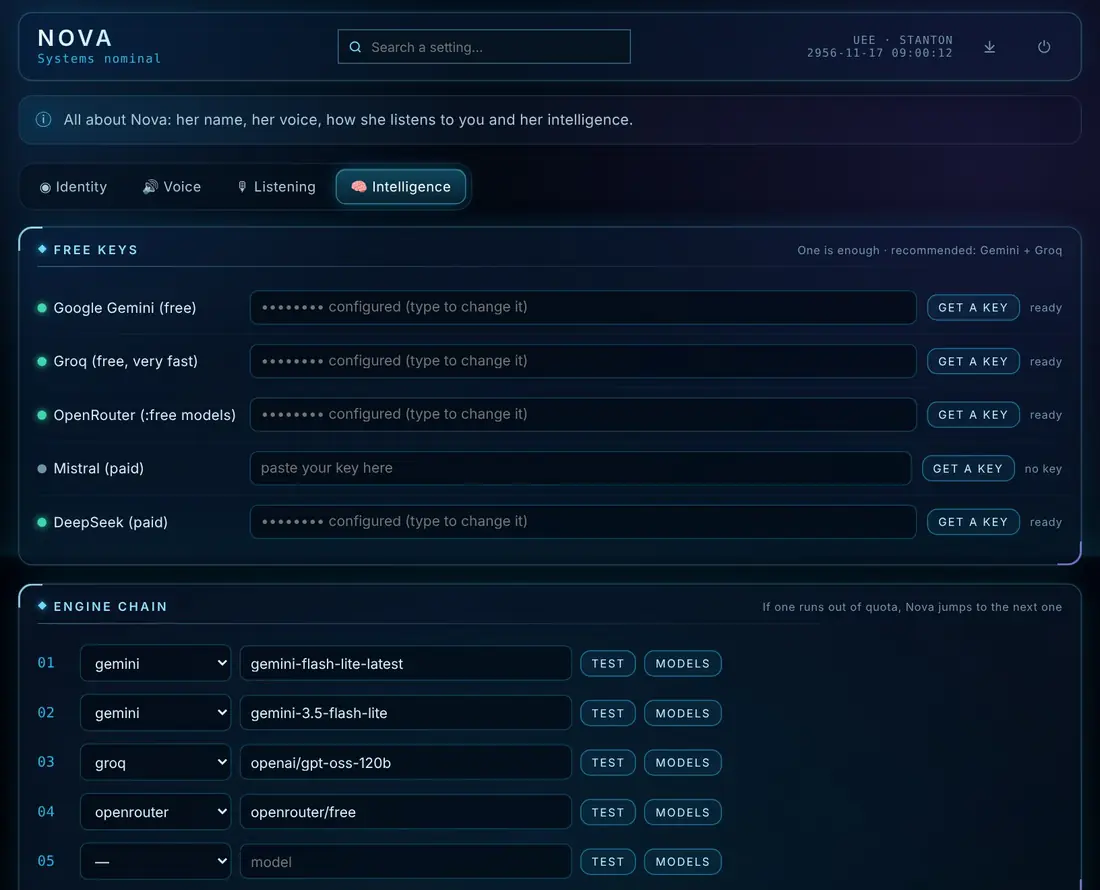
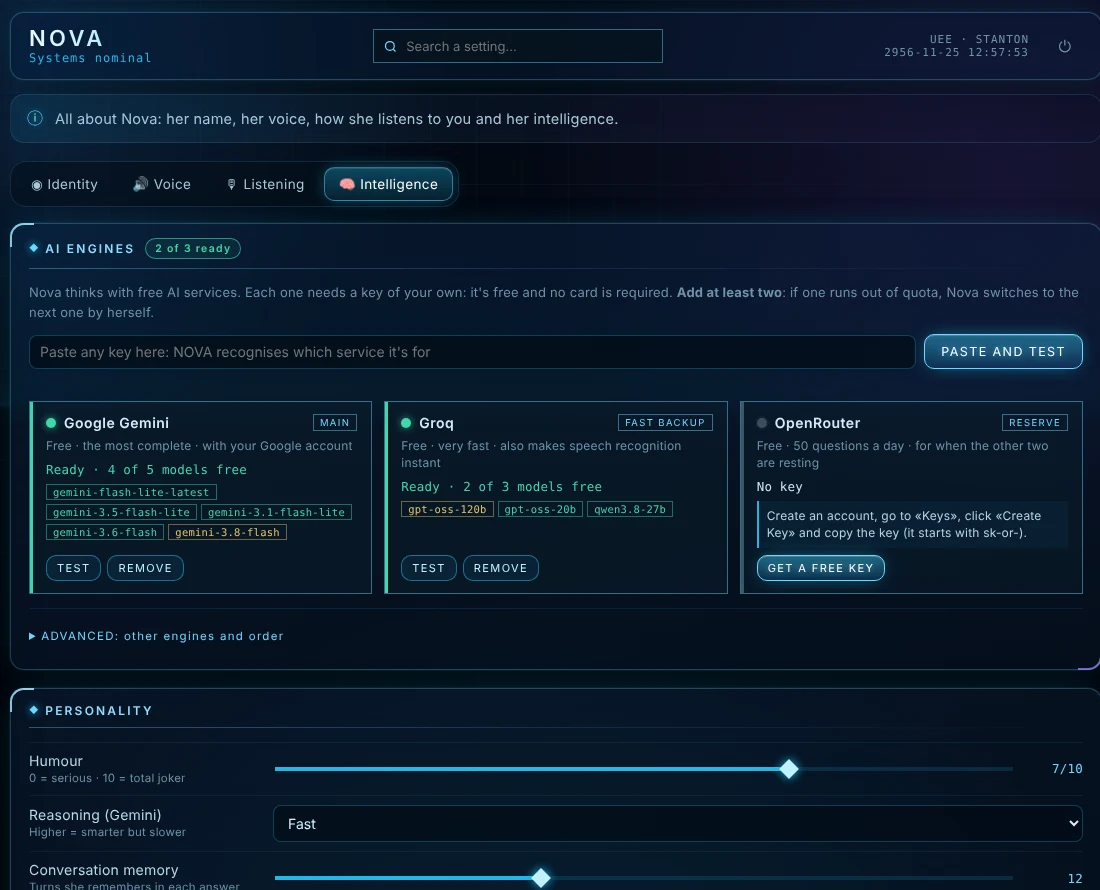
Manual 2.1.5: capturas nuevas de Nova › Inteligencia y página de personalidad sin desbordar
- c_ia.webp (5 idiomas) con el panel MOTORES DE IA.
- Figura de personalidad más pequeña y fuera el consejo «Añadir un motor a la cadena» (ahora en Avanzado),
  que con la tabla nueva se salía de la página al imprimir.

Claude-Session: https://claude.ai/code/session_0187yjVk9BoTDpcdbcGZm9k3

diff --git a/gui/web/manual/de/index.html b/gui/web/manual/de/index.html
@@ -704,7 +704,7 @@ table.tight{font-size:8pt}table.tight td{padding:1.15mm 2.2mm;line-height:1.3}
   </table>
   <p class="small dim">Ist keines frei, sagt dir Nova, welches ausfällt und wann es zurück ist. Unter <b>Erweitert</b> kannst du Mistral (kostenpflichtig) eintragen, Ollama auf deinem PC als letzte Reserve nutzen, die Reihenfolge selbst festlegen oder alle Pausen mit <b>Alle jetzt erneut testen</b> aufheben.</p>
   <h2>Persönlichkeit</h2>
-  <figure class="c" style="width:122mm"><img src="img/c_ia_personalidad.webp"><figcaption><b>Persönlichkeit:</b> Humor, Nachdenken, Gesprächsgedächtnis und Geständnissätze.</figcaption></figure>
+  <figure class="c" style="width:104mm"><img src="img/c_ia_personalidad.webp"><figcaption><b>Persönlichkeit:</b> Humor, Nachdenken, Gesprächsgedächtnis und Geständnissätze.</figcaption></figure>
   <table class="small">
     <tr><th style="width:52mm">Einstellung</th><th>Wofür sie ist</th></tr>
     <tr><td>Humor</td><td>Von 0 (ernst) bis 10 (durch und durch witzig).</td></tr>
@@ -713,7 +713,6 @@ table.tight{font-size:8pt}table.tight td{padding:1.15mm 2.2mm;line-height:1.3}
     <tr><td>Erfinden, wenn sie es nicht weiß</td><td>An: Sie erfindet die Antwort mit Witz und gibt es am Ende zu. Aus: Sie sagt Ihnen mit Humor, dass sie es nicht weiß.</td></tr>
     <tr><td>Geständnissätze</td><td>Einer pro Zeile; sie wählt zufällig einen. <code>{t}</code> wird durch die Anrede ersetzt, die sie für Sie verwendet. <b>Original wiederherstellen</b> kehrt zum Werkssatz zurück.</td></tr>
   </table>
-  <div class="tip"><span class="t">EINE ENGINE ZUR KETTE HINZUFÜGEN</span>Wählen Sie in der leeren Zeile den Anbieter (zum Beispiel <b>deepseek</b>, wenn Sie dessen Schlüssel haben), tippen Sie das Modell oder klicken Sie auf <b>MODELLE</b>, um es aus der Liste zu wählen, und prüfen Sie es mit <b>TESTEN</b>. Zum Entfernen setzen Sie den Anbieter auf „—“.</div>
   <div class="pf">NOVA AI · BENUTZERHANDBUCH<span class="n"></span></div>
 </section>
 

diff --git a/gui/web/manual/fr/index.html b/gui/web/manual/fr/index.html
@@ -704,7 +704,7 @@ table.tight{font-size:8pt}table.tight td{padding:1.15mm 2.2mm;line-height:1.3}
   </table>
   <p class="small dim">S'il n'en reste aucun de libre, Nova vous dit lequel échoue et quand il revient. Dans <b>Avancé</b>, vous pouvez ajouter Mistral (payant), utiliser Ollama sur votre PC en dernier recours, choisir vous-même l'ordre des moteurs ou lever toutes les pauses avec <b>Tout réessayer maintenant</b>.</p>
   <h2>Personnalité</h2>
-  <figure class="c" style="width:122mm"><img src="img/c_ia_personalidad.webp"><figcaption><b>Personnalité :</b> humour, raisonnement, mémoire de conversation et phrases d'aveu.</figcaption></figure>
+  <figure class="c" style="width:104mm"><img src="img/c_ia_personalidad.webp"><figcaption><b>Personnalité :</b> humour, raisonnement, mémoire de conversation et phrases d'aveu.</figcaption></figure>
   <table class="small">
     <tr><th style="width:52mm">Réglage</th><th>À quoi il sert</th></tr>
     <tr><td>Humour</td><td>De 0 (sérieuse) à 10 (blagueuse totale).</td></tr>
@@ -713,7 +713,6 @@ table.tight{font-size:8pt}table.tight td{padding:1.15mm 2.2mm;line-height:1.3}
     <tr><td>Inventer quand elle ne sait pas</td><td>Activé : elle invente la réponse avec esprit et l'avoue à la fin. Désactivé : elle vous dit avec humour qu'elle ne sait pas.</td></tr>
     <tr><td>Phrases d'aveu</td><td>Une par ligne ; elle en choisit une au hasard. <code>{t}</code> est remplacé par la façon dont elle vous appelle. <b>Restaurer l'originale</b> revient à celle d'usine.</td></tr>
   </table>
-  <div class="tip"><span class="t">AJOUTER UN MOTEUR À LA CHAÎNE</span>Dans la ligne vide, choisissez le fournisseur (par exemple <b>deepseek</b>, si vous avez sa clé), écrivez le modèle ou cliquez sur <b>MODÈLES</b> pour le choisir dans la liste, et vérifiez-le avec <b>TESTER</b>. Pour en retirer un, mettez le fournisseur sur « — ».</div>
   <div class="pf">NOVA AI · MANUEL UTILISATEUR<span class="n"></span></div>
 </section>
 

diff --git a/gui/web/manual/index.html b/gui/web/manual/index.html
@@ -705,7 +705,7 @@ table.tight{font-size:8pt}table.tight td{padding:1.15mm 2.2mm;line-height:1.3}
   </table>
   <p class="small dim">Si no queda ninguno libre, Nova te dice cuál falla y cuándo vuelve. En <b>Avanzado</b> puedes poner Mistral (de pago), usar Ollama en tu PC como último recurso, elegir tú el orden de los motores o quitar todas las pausas con <b>Volver a probar todos ya</b>.</p>
   <h2>Personalidad</h2>
-  <figure class="c" style="width:122mm"><img src="img/c_ia_personalidad.webp"><figcaption><b>Personalidad:</b> humor, razonamiento, memoria de la conversación y frases de confesión.</figcaption></figure>
+  <figure class="c" style="width:104mm"><img src="img/c_ia_personalidad.webp"><figcaption><b>Personalidad:</b> humor, razonamiento, memoria de la conversación y frases de confesión.</figcaption></figure>
   <table class="small">
     <tr><th style="width:52mm">Ajuste</th><th>Para qué sirve</th></tr>
     <tr><td>Humor</td><td>De 0 (serio) a 10 (cachondo total).</td></tr>
@@ -714,7 +714,6 @@ table.tight{font-size:8pt}table.tight td{padding:1.15mm 2.2mm;line-height:1.3}
     <tr><td>Inventar cuando no sabe algo</td><td>Activado: se inventa la respuesta con gracia y lo confiesa al final. Desactivado: te dice con humor que no lo sabe.</td></tr>
     <tr><td>Frases de confesión</td><td>Una por línea; elige una al azar. <code>{t}</code> se cambia por cómo te llama. <b>Restaurar la original</b> vuelve a la de fábrica.</td></tr>
   </table>
-  <div class="tip"><span class="t">AÑADIR UN MOTOR A LA CADENA</span>En la fila vacía elige el proveedor (por ejemplo <b>deepseek</b>, si tienes su clave), escribe el modelo o pulsa <b>MODELOS</b> para elegirlo de la lista, y comprueba con <b>PROBAR</b>. Para quitar uno, deja el proveedor en «—».</div>
   <div class="pf">NOVA AI · MANUAL DE USUARIO<span class="n"></span></div>
 </section>
 

diff --git a/gui/web/manual/ca/index.html b/gui/web/manual/ca/index.html
@@ -704,7 +704,7 @@ table.tight{font-size:8pt}table.tight td{padding:1.15mm 2.2mm;line-height:1.3}
   </table>
   <p class="small dim">Si no en queda cap de lliure, la Nova et diu quin falla i quan torna. A <b>Avançat</b> pots posar Mistral (de pagament), fer servir Ollama al teu PC com a últim recurs, triar tu l'ordre dels motors o treure totes les pauses amb <b>Torna-los a provar tots ara</b>.</p>
   <h2>Personalitat</h2>
-  <figure class="c" style="width:122mm"><img src="img/c_ia_personalidad.webp"><figcaption><b>Personalitat:</b> humor, raonament, memòria de la conversa i frases de confessió.</figcaption></figure>
+  <figure class="c" style="width:104mm"><img src="img/c_ia_personalidad.webp"><figcaption><b>Personalitat:</b> humor, raonament, memòria de la conversa i frases de confessió.</figcaption></figure>
   <table class="small">
     <tr><th style="width:52mm">Ajust</th><th>Per a què serveix</th></tr>
     <tr><td>Humor</td><td>De 0 (seriosa) a 10 (bromista total).</td></tr>
@@ -713,7 +713,6 @@ table.tight{font-size:8pt}table.tight td{padding:1.15mm 2.2mm;line-height:1.3}
     <tr><td>Inventar quan no ho sap</td><td>Activat: s'inventa la resposta amb gràcia i ho confessa al final. Desactivat: et diu amb humor que no ho sap.</td></tr>
     <tr><td>Frases de confessió</td><td>Una per línia; en tria una a l'atzar. <code>{t}</code> se substitueix per com et diu. <b>Restaurar l'original</b> torna a la de fàbrica.</td></tr>
   </table>
-  <div class="tip"><span class="t">AFEGIR UN MOTOR A LA CADENA</span>A la fila buida tria el proveïdor (per exemple <b>deepseek</b>, si en tens la clau), escriu el model o prem <b>MODELS</b> per triar-lo de la llista, i comprova'l amb <b>PROVAR</b>. Per treure'n un, posa el proveïdor a «—».</div>
   <div class="pf">NOVA AI · MANUAL D'USUARI<span class="n"></span></div>
 </section>
 

diff --git a/gui/web/manual/en/index.html b/gui/web/manual/en/index.html
@@ -704,7 +704,7 @@ table.tight{font-size:8pt}table.tight td{padding:1.15mm 2.2mm;line-height:1.3}
   </table>
   <p class="small dim">If none is free, Nova tells you which one is failing and when it comes back. Under <b>Advanced</b> you can add Mistral (paid), use Ollama on your PC as a last resort, choose the engine order yourself or clear every pause with <b>Retry all now</b>.</p>
   <h2>Personality</h2>
-  <figure class="c" style="width:122mm"><img src="img/c_ia_personalidad.webp"><figcaption><b>Personality:</b> humour, reasoning, conversation memory and confession phrases.</figcaption></figure>
+  <figure class="c" style="width:104mm"><img src="img/c_ia_personalidad.webp"><figcaption><b>Personality:</b> humour, reasoning, conversation memory and confession phrases.</figcaption></figure>
   <table class="small">
     <tr><th style="width:52mm">Setting</th><th>What it's for</th></tr>
     <tr><td>Humour</td><td>From 0 (serious) to 10 (total joker).</td></tr>
@@ -713,7 +713,6 @@ table.tight{font-size:8pt}table.tight td{padding:1.15mm 2.2mm;line-height:1.3}
     <tr><td>Make things up when she doesn't know</td><td>On: she makes up the answer with some wit and owns up at the end. Off: she tells you with humour that she doesn't know.</td></tr>
     <tr><td>Confession phrases</td><td>One per line; she picks one at random. <code>{t}</code> is replaced by what she calls you. <b>Restore the original</b> goes back to the built-in one.</td></tr>
   </table>
-  <div class="tip"><span class="t">ADDING AN ENGINE TO THE CHAIN</span>In the empty row choose the provider (for example <b>deepseek</b>, if you have its key), type the model or click <b>MODELS</b> to pick it from the list, and check it with <b>TEST</b>. To remove one, set the provider to "—".</div>
   <div class="pf">NOVA AI · USER MANUAL<span class="n"></span></div>
 </section>
 
